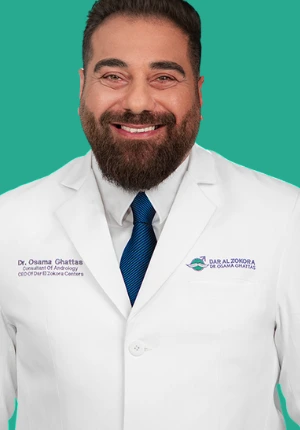
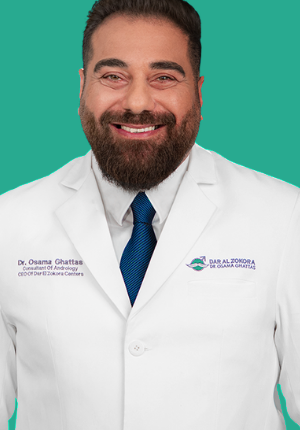
Hero: stand him in a mint field instead of a floating card
The portrait read as a pasted card — a bordered rectangle hovering on the
navy with a caption stuck to it. It now stands in a mint field that runs the
full height of the hero and off the right edge of the screen.

The trick is that the photograph's own background was already remapped to
exactly --color-mint, rgb(39,165,140), so the image and the panel are the same
colour and the join is invisible. He reads as cut out without anyone having to
cut a white suit off a white page. The webp is re-encoded lossless for the
same reason: at quality 92 the flat background drifted a shade at the edges
and the seam would have shown.

First attempt put the portrait in the grid cell and it straddled the
navy/mint boundary, exposing its own rectangle. It lives inside the mint panel
now, which makes that impossible by construction. Below lg the panel is gone,
so a second copy renders in flow with its own mint block bled to the screen
edges by the new .u-bleed utility — same src, so the browser fetches it once.

Headline is larger and tighter, and the contents strip moved to its own band
so the hero above it can run edge to edge.

diff --git a/src/pages/Home.tsx b/src/pages/Home.tsx
@@ -78,13 +78,22 @@ const CONTENTS = [
 
 function Hero() {
   return (
-    <section className="u-grain relative overflow-hidden bg-brand-deep">
-      <div className="u-hero-field absolute inset-0" aria-hidden />
-      <div className="u-scrim absolute inset-0" aria-hidden />
+    <>
+      <section className="u-grain relative overflow-hidden bg-brand-deep">
+        <div className="u-hero-field absolute inset-0" aria-hidden />
+        <div className="u-scrim absolute inset-0" aria-hidden />
 
-      <div className="u-wrap relative z-10 pt-32 pb-0 lg:pt-40">
-        <div className="grid items-end gap-12 lg:grid-cols-[1.15fr_0.85fr]">
-          <div className="pb-4">
+        {/* The mint field the portrait stands in, running the full height of
+            the hero and off the right edge. The photograph's own background
+            was remapped to this exact colour, so the join between the image
+            and the panel is invisible — he reads as cut out without anyone
+            having to cut a white suit off a white page. */}
+        <div className="absolute inset-y-0 right-0 hidden w-[42%] items-end justify-center bg-mint lg:flex xl:w-[38%]">
+          <Portrait name="suit" priority className="w-[330px] max-w-[82%]" />
+        </div>
+
+        <div className="u-wrap relative z-10 grid items-end gap-10 pt-28 lg:min-h-[680px] lg:grid-cols-[1.05fr_0.95fr] lg:gap-14 lg:pt-36">
+          <div className="pb-12 lg:pb-24">
             <Reveal>
               <Pill tone="light">
                 <LiveDot />
@@ -96,7 +105,7 @@ function Hero() {
               text="Men's health, handled privately."
               as="h1"
               delay={0.12}
-              className="mt-7 max-w-[15ch] text-[clamp(44px,8.6vw,104px)] text-white"
+              className="mt-7 max-w-[14ch] text-[clamp(46px,9vw,112px)] leading-[0.94] text-white"
             />
 
             <Reveal delay={0.3}>
@@ -136,64 +145,52 @@ function Hero() {
             </Reveal>
           </div>
 
-          {/* The cover portrait, offset and drifting — a spread, not a banner.
-              Shown on phones too: it is the first thing the clinic wants seen,
-              and hiding it below lg meant most visitors never did. */}
-          {/* Capped near the source's native 296px. The clinic's site only has
-              600×600 originals, and letting the column stretch it to ~450px
-              put it at 1.5x — visibly soft on a retina screen. A real shoot
-              is still owed. */}
-          <Reveal delay={0.2} className="mx-auto w-full max-w-[260px] sm:max-w-[300px] lg:mx-0 lg:ml-auto lg:max-w-[340px]">
-            <Drift amount={34}>
-              <div className="relative">
-                <Portrait name="suit" priority className="aspect-[296/504] w-full" />
-                <span
-                  className="pointer-events-none absolute -inset-3 border border-white/15"
-                  aria-hidden
-                />
-                <figcaption className="absolute -bottom-px left-0 right-0 bg-brand-deep/80 px-4 py-3 backdrop-blur-sm">
-                  <p className="font-display text-[17px] leading-tight text-white">
-                    {BRAND.doctor}
-                  </p>
-                  <p className="mt-0.5 text-[11.5px] text-white/55">
-                    Consultant andrologist &amp; urologist
-                  </p>
-                </figcaption>
-              </div>
-            </Drift>
-          </Reveal>
+          {/* Below lg there is no mint field, so the portrait carries its own,
+              bled to the screen edges rather than sitting in a card. On lg it
+              is hidden and the copy of it inside the mint field takes over —
+              placing it there is what guarantees the photograph's own mint
+              rectangle can never straddle the navy/mint boundary and show its
+              edge. Same src, so the browser fetches it once. */}
+          <div className="u-bleed flex items-end justify-center bg-mint pt-10 lg:hidden">
+            <Portrait name="suit" priority className="w-[260px] sm:w-[300px]" />
+          </div>
         </div>
+      </section>
 
-        {/* Contents strip. */}
-        <div className="mt-16 border-t border-white/12 lg:mt-20">
-          {/* The trailing arrow sits at `ml-auto`, so without a column gap it
-              lands hard against the next cell's index number. */}
-          <ul className="grid gap-x-10 divide-y divide-white/10 sm:grid-cols-2 sm:divide-y-0 lg:grid-cols-4">
-            {CONTENTS.map((c) => (
-              <li key={c.n}>
-                <Link
-                  href={c.href}
-                  className="group flex items-baseline gap-4 py-6 transition-colors"
-                >
-                  <span className="u-tnum text-[11px] font-semibold tracking-[0.2em] text-mint">
-                    {c.n}
-                  </span>
-                  <span className="font-display text-[19px] text-white/80 transition-colors group-hover:text-white">
-                    {c.label}
-                  </span>
-                  <ArrowRight
-                    size={15}
-                    className="ml-auto self-center text-white/25 transition-all group-hover:translate-x-1 group-hover:text-white/70"
-                  />
-                </Link>
-              </li>
-            ))}
-          </ul>
-        </div>
+      <Contents />
+    </>
+  );
+}
+
+/** The contents strip — a magazine's front-of-book listing, on its own band
+    so the hero above it can run its mint field edge to edge. */
+function Contents() {
+  return (
+    <section className="u-grain relative overflow-hidden bg-brand-deep">
+      <div className="u-wrap relative z-10">
+        <ul className="grid gap-x-10 divide-y divide-white/10 sm:grid-cols-2 sm:divide-y-0 lg:grid-cols-4">
+          {CONTENTS.map((c) => (
+            <li key={c.n}>
+              <Link href={c.href} className="group flex items-baseline gap-4 py-6 transition-colors">
+                <span className="u-tnum text-[11px] font-semibold tracking-[0.2em] text-mint">
+                  {c.n}
+                </span>
+                <span className="font-display text-[19px] text-white/80 transition-colors group-hover:text-white">
+                  {c.label}
+                </span>
+                <ArrowRight
+                  size={15}
+                  className="ml-auto self-center text-white/25 transition-all group-hover:translate-x-1 group-hover:text-white/70"
+                />
+              </Link>
+            </li>
+          ))}
+        </ul>
       </div>
     </section>
   );
 }
+
 
 /* ── Quick access ────────────────────────────────────────── */
 

diff --git a/src/index.css b/src/index.css
@@ -86,6 +86,11 @@
 
 @layer utilities {
   .u-wrap { width: 100%; max-width: 1200px; margin-inline: auto; padding-inline: clamp(20px, 5vw, 48px); }
+
+  /* Cancels u-wrap's side padding exactly, so a block inside the wrap can run
+     to the screen edges. The clamp has to match u-wrap's or the bleed is off
+     by a few pixels at some widths and shows as a hairline of background. */
+  .u-bleed { margin-inline: calc(-1 * clamp(20px, 5vw, 48px)); }
   .u-wrap-narrow { width: 100%; max-width: 820px; margin-inline: auto; padding-inline: clamp(20px, 5vw, 48px); }
 
   .u-eyebrow {
